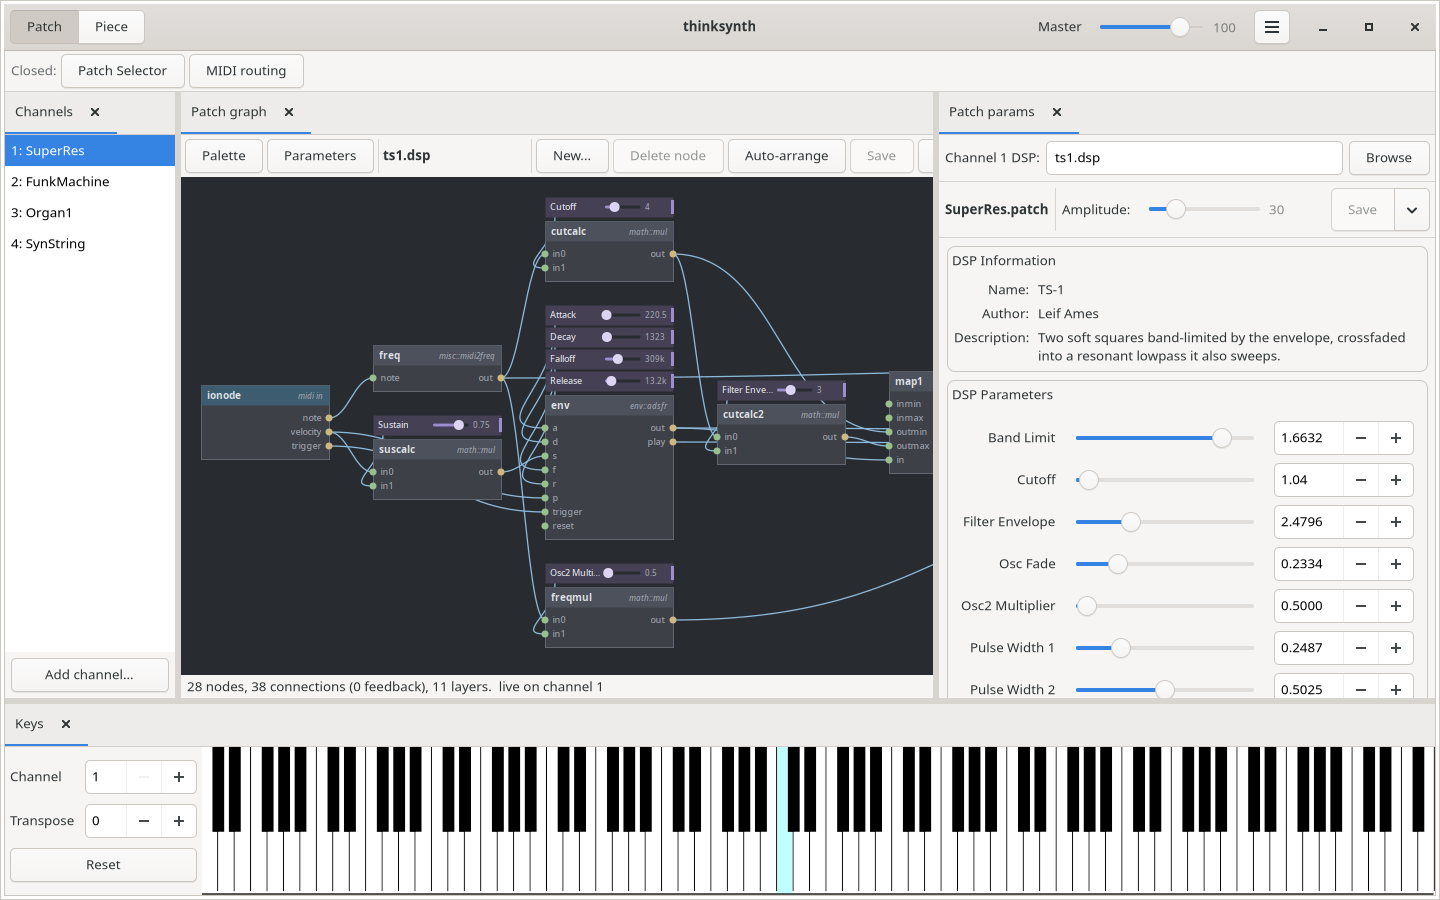
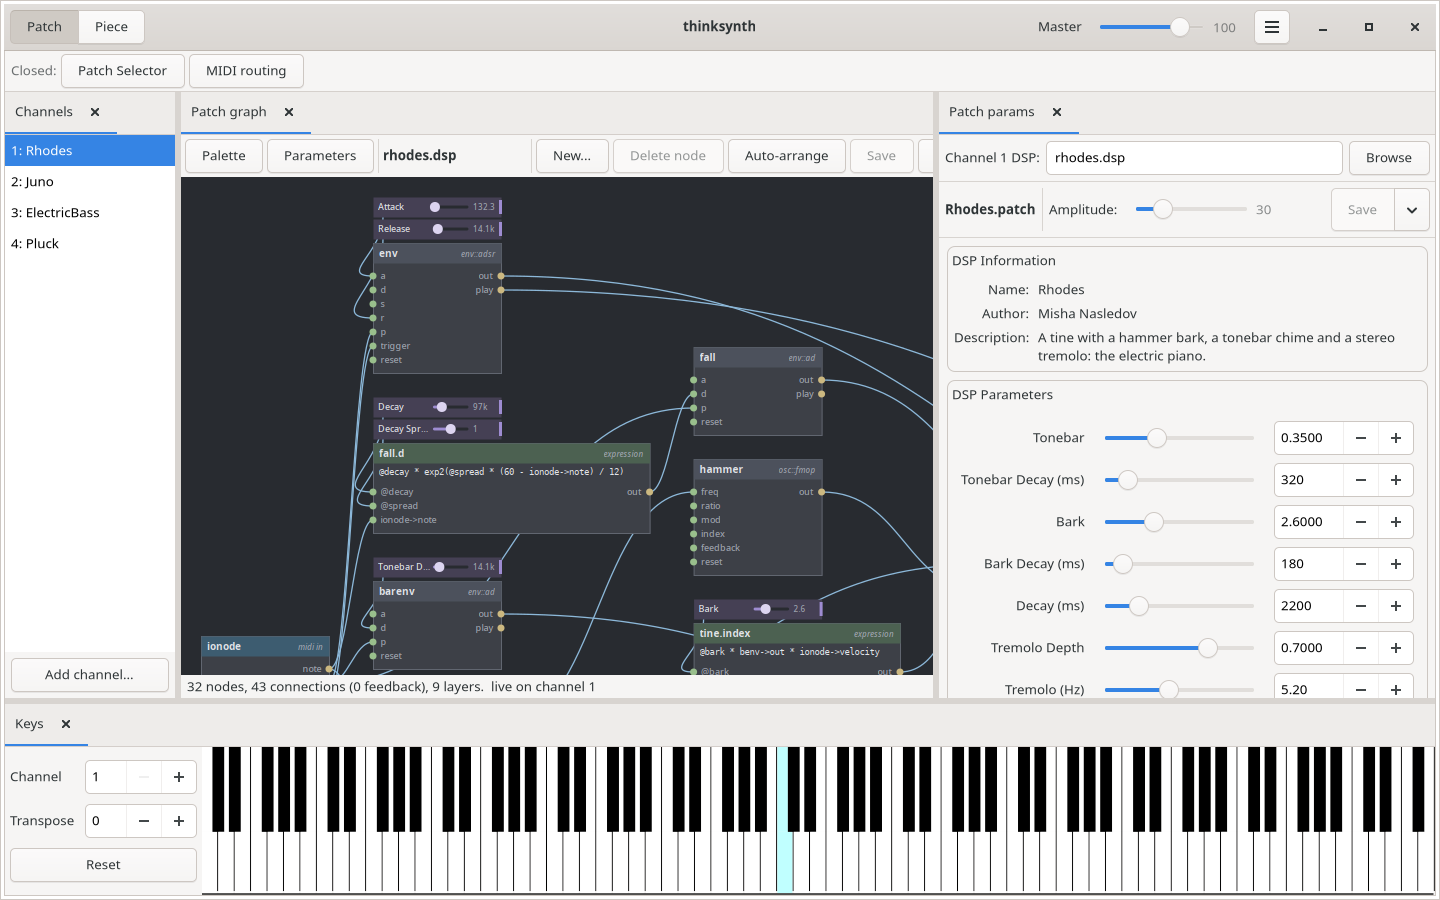
patches: Rhodes, Juno, Electric Bass and Pluck as the first-run defaults
The first run loaded SuperRes, FunkMachine, Organ1 and SynString, four
2005 patches on ts1, ts2 and amb01. The newer instruments had no .patch
at all. Four new patches wrap them at each graph's own values:
keys/Rhodes, pads/Juno, bass/ElectricBass and leads/Pluck.

They are ordered for the pieces that name channels rather than carrying
instruments, whose headers ask for keys or something percussive on 1, a
pad on 2, a bass on 3 and a pluck on 4.

Each default now has its own amp: 30, 30, 60 and 28. At one amp of 30
the electric bass peaked at 0.2 against 0.4 to 0.5 for the others,
which is why the pieces playing these graphs give it two to three times
the Rhodes's amp. thPatchDefaultAmp gives the level for a channel.
The desktop's first run writes it into thinkrc, and the page sets it
when it aims a default at a piece's channel.

configcheck names the new four and checks each is written at its own
amp. The patch-mode screenshot is retaken, since a first run now opens
on the Rhodes.

diff --git a/wasm/web/patch.js b/wasm/web/patch.js
@@ -233,12 +233,19 @@ export async function aim (synth, channels, chosen = new Map())
        the load these belong to. */
     for (const channel of channels)
     {
-        const name = chosen.get(channel) ??
-                     (await synth.patchDefault(channel)).name;
+        /* A default goes on at its own level, as it does on the desktop's
+           first run; a choice somebody made goes on at the one every
+           patch loaded by hand gets. */
+        const fallback = chosen.has(channel)
+            ? null : await synth.patchDefault(channel);
+        const name = chosen.get(channel) ?? fallback.name;
 
         try
         {
             placed.set(channel, await place(synth, channel, name));
+
+            if (fallback !== null)
+                synth.chanarg(channel, 'amp', fallback.amp);
         }
         catch (e)
         {

diff --git a/wasm/web/worklet.js b/wasm/web/worklet.js
@@ -399,6 +399,7 @@ class ThinkProcessor extends AudioWorkletProcessor
                 type: 'patchdefault', id: m.id,
                 name: this.M.ccall('tw_patch_default', 'string', ['number'],
                                    [m.channel]),
+                amp: this.M._tw_patch_default_amp(m.channel),
             });
 
             return;

diff --git a/src/PatchSet.cpp b/src/PatchSet.cpp
@@ -23,15 +23,30 @@
 
 #include "config.h"
 
+#include "think.h"
+
 #include "PatchSet.h"
 
 /* See the header. Index is the channel, which is what the application's
-   table of pairs always was. */
-static const char *const patchDefaults[] = {
-    "leads/SuperRes.patch",
-    "bass/FunkMachine.patch",
-    "organs/Organ1.patch",
-    "pads/SynString.patch",
+   table of pairs always was.
+
+   Ordered for the pieces that name channels rather than carrying their
+   own instruments, whose headers ask for something percussive or keys on
+   channel 1, a pad on 2, a bass on 3 and something plucked on 4.
+
+   The levels are each graph's own: at one amp the electric bass sat at
+   half the peak of the other three, and the pieces that play these graphs
+   give it two to three times the amp they give the Rhodes. Each is set so
+   a chord, or the bass's single notes, peaks between 0.4 and 0.5. */
+static const struct
+{
+    const char *patch;
+    float amp;
+} patchDefaults[] = {
+    { "keys/Rhodes.patch",       30 },
+    { "pads/Juno.patch",         30 },
+    { "bass/ElectricBass.patch", 60 },
+    { "leads/Pluck.patch",       28 },
 };
 
 int thPatchDefaultCount (void)
@@ -46,7 +61,17 @@ string thPatchDefaultFor (int channel)
     if (channel < 0 || n <= 0)
         return string();
 
-    return patchDefaults[channel % n];
+    return patchDefaults[channel % n].patch;
+}
+
+float thPatchDefaultAmp (int channel)
+{
+    const int n = thPatchDefaultCount();
+
+    if (channel < 0 || n <= 0)
+        return TH_DEFAULT_CHAN_AMP;
+
+    return patchDefaults[channel % n].amp;
 }
 
 /* Stamped on every slot, never reused, counted once across the program --

diff --git a/scripts/configcheck.cpp b/scripts/configcheck.cpp
@@ -92,11 +92,14 @@ static void ok (bool cond, const char *fmt, ...)
    purpose: a test that imported the table would agree with it however it
    changed, including into something empty. */
 static const char *expected[] = {
-    "leads/SuperRes.patch",
-    "bass/FunkMachine.patch",
-    "organs/Organ1.patch",
-    "pads/SynString.patch",
+    "keys/Rhodes.patch",
+    "pads/Juno.patch",
+    "bass/ElectricBass.patch",
+    "leads/Pluck.patch",
 };
+
+/* And the level each goes on at, spelled out for the same reason. */
+static const int expectedAmp[] = { 30, 30, 60, 28 };
 
 static const size_t expectedCount = sizeof(expected) / sizeof(expected[0]);
 
@@ -289,6 +292,23 @@ int main (int argc, char **argv)
 
         ok(allRelative,
            "every patch it wrote is named relatively, so the file travels");
+
+        /* Each at its own level, which is what the file keeps. */
+        bool levels = lines.size() == expectedCount;
+
+        for (size_t i = 0; levels && i < lines.size(); i++)
+        {
+            const size_t b = lines[i].rfind(',');
+
+            if (b == string::npos ||
+                atoi(lines[i].c_str() + b + 1) != expectedAmp[i])
+            {
+                printf("      %s\n", lines[i].c_str());
+                levels = false;
+            }
+        }
+
+        ok(levels, "each default is written at its own amp");
     }
 
     /* ---- reading it back -------------------------------------------- */

diff --git a/src/gthPrefs.cpp b/src/gthPrefs.cpp
@@ -304,11 +304,10 @@ bool gthPrefs::LoadDefaults (void)
      * configure_file'd with absolute ones, which made it correct only on a
      * machine installed to the prefix the build was configured with.
      *
-     * TH_DEFAULT_CHAN_AMP because that is what loading a patch by hand gives
-     * it; a channel that came from here and a channel the user loaded should
-     * not sit at different volumes for no reason a user can see. Four
-     * channels at once is the case that number is chosen for -- see where it
-     * is defined. */
+     * Each at the amp the table gives it rather than TH_DEFAULT_CHAN_AMP,
+     * which is the level for a patch loaded by hand that nobody has
+     * measured. These four have been measured against each other, and at
+     * one amp the bass sat at half the level of the rest. */
     const int n = thPatchDefaultCount();
 
     size_t loaded = 0;
@@ -324,7 +323,7 @@ bool gthPrefs::LoadDefaults (void)
             continue;
         }
 
-        synth->setChanArg(chan, new thArg("amp", TH_DEFAULT_CHAN_AMP));
+        synth->setChanArg(chan, new thArg("amp", thPatchDefaultAmp(chan)));
         loaded++;
     }
 

diff --git a/src/PatchSet.h b/src/PatchSet.h
@@ -80,7 +80,8 @@ typedef sigc::signal<void(const char*)> type_signal_patch_load_error;
 /* ---- the first-run configuration ----
  *
  * What a channel sounds like when nothing has said otherwise: four patches,
- * one of each obvious kind, on the first four channels.
+ * one of each obvious kind, on the first four channels, each at a level of
+ * its own.
  *
  * Built in rather than shipped as a file. The file this replaces was
  * configure_file'd with absolute paths, which made it correct only on a
@@ -113,6 +114,12 @@ int thPatchDefaultCount (void);
  * should not have the same gap -- and the rule for closing it lives here so
  * that there is one of it. */
 string thPatchDefaultFor (int channel);
+
+/* The amp that channel's default goes on at, on the channel's 0..127
+ * scale; the same `c mod count' rule. Not TH_DEFAULT_CHAN_AMP for every
+ * one: that is the level for a patch nobody has measured, and these four
+ * have been, against each other. */
+float thPatchDefaultAmp (int channel);
 
 class thPatchSet
 {

diff --git a/wasm/web/thinkweb.cpp b/wasm/web/thinkweb.cpp
@@ -2000,6 +2000,13 @@ EMSCRIPTEN_KEEPALIVE const char *tw_patch_default (int channel)
     return patchJson_.c_str();
 }
 
+/* The amp that channel's default goes on at: src/PatchSet.h's, the same
+   number the desktop's first run writes into thinkrc. */
+EMSCRIPTEN_KEEPALIVE float tw_patch_default_amp (int channel)
+{
+    return thPatchDefaultAmp(channel);
+}
+
 /* How many there are, so a page can fetch each of them once before the first
    load -- the aiming happens inside a load, and a load has no time to wait
    for the network. */

diff --git a/docs/DSP_FORMAT.md b/docs/DSP_FORMAT.md
@@ -656,11 +656,11 @@ against the desktop's, byte for byte.
 
 That the writing is one thing too is what makes a `.patch` saved in a browser
 a file the application opens: the bytes come from `thPatchCompose` on both
-sides, and all 101 shipped patches compose back to themselves byte for byte.
+sides, and all 105 shipped patches compose back to themselves byte for byte.
 
 ### A patch's category is its drawer
 
-`patches/{bass,leads,pads,organs,brass,winds,drums/...}`. That directory is
+`patches/{bass,keys,leads,pads,organs,brass,winds,drums/...}`. That directory is
 part of the name — `leads/SuperRes.patch` is what `thinkrc` stores, what
 `gthPrefs`'s first-run defaults spell and what the page's `patches/index.json`
 lists — so it is load-bearing, and it is already the grouping every patch menu
@@ -836,12 +836,12 @@ files have gone. `dsp/fx/` is where the effects idea lives now.
 one of those plugins would bring any file naming it back into the sweep. The
 filter matching nothing is the point of it.
 
-**All 101 patches load.** Two of them did not until recently:
+**All 105 patches load.** Two of them did not until recently:
 `patches/pads/Rythmic.patch` and `Rythmic-2.patch` named an absolute
 `/usr/local/share//thinksynth/dsp/mfm03.dsp` that was never in the tree, and
 now name `mfm01.dsp`, which declares exactly the chanargs they set.
 
-The CI gates therefore run over all 77 DSPs and all 101 patches, plus the
+The CI gates therefore run over all 77 DSPs and all 105 patches, plus the
 three specimens in `scripts/guard/`.
 `cmake/RunHarness.cmake` filters DSPs by what a file *references* rather than
 by name, so the exclusion cannot go stale. It strips comments before it looks,

diff --git a/README.md b/README.md
@@ -19,10 +19,10 @@ roll underneath.
 
 ![The desktop in piece mode, playing mirrorball.gen](docs/screenshots/desktop-piece.png)
 
-A patch: SuperRes's graph, which can be edited live, and the parameters
+A patch: the Rhodes's graph, which can be edited live, and the parameters
 it exposes.
 
-![The desktop in patch mode, with SuperRes's graph](docs/screenshots/desktop-patch.png)
+![The desktop in patch mode, with the Rhodes's graph](docs/screenshots/desktop-patch.png)
 
 The same engine in a browser, [on the web](https://mishan.github.io/thinksynth/),
 playing the same piece, and on a phone.
@@ -136,14 +136,15 @@ There is nothing to set up. With no configuration file anywhere, thinksynth
 writes one and starts with four channels already loaded:
 
 ```
-channel 0,leads/SuperRes.patch,30
-channel 1,bass/FunkMachine.patch,30
-channel 2,organs/Organ1.patch,30
-channel 3,pads/SynString.patch,30
+channel 0,keys/Rhodes.patch,30
+channel 1,pads/Juno.patch,30
+channel 2,bass/ElectricBass.patch,60
+channel 3,leads/Pluck.patch,28
 ```
 
 So the on-screen keyboard makes a sound immediately, and the channel spinner
-moves between four different ones. Edit or delete lines to change that; delete
+moves between four different ones: an electric piano, a pad, a fingered bass
+and a pluck, each at a level measured against the others. Edit or delete lines to change that; delete
 the whole file to get the defaults back.
 
 The patches are named relatively and looked up the same way DSPs are, which is

diff --git a/docs/ARCHITECTURE.md b/docs/ARCHITECTURE.md
@@ -16,7 +16,7 @@ see [DSP_FORMAT.md](DSP_FORMAT.md); for the output stage and gain staging see
 | GUI | `src/gui/` | gtkmm-4: main window, keyboard, arg sliders, patch selector, MIDI map, node canvas. |
 
 Data lives in `dsp/` — 61 instruments and 16 effect graphs under `dsp/fx/` —
-plus the 22 wavs under `dsp/samples/` and `patches/**/*.patch` (101 presets).
+plus the 22 wavs under `dsp/samples/` and `patches/**/*.patch` (105 presets).
 All of it installs and all of it loads; there is no longer a drawer of files
 that do neither. Three graphs that are specimens rather than instruments live
 in `scripts/guard/` beside the harnesses that cite them.
